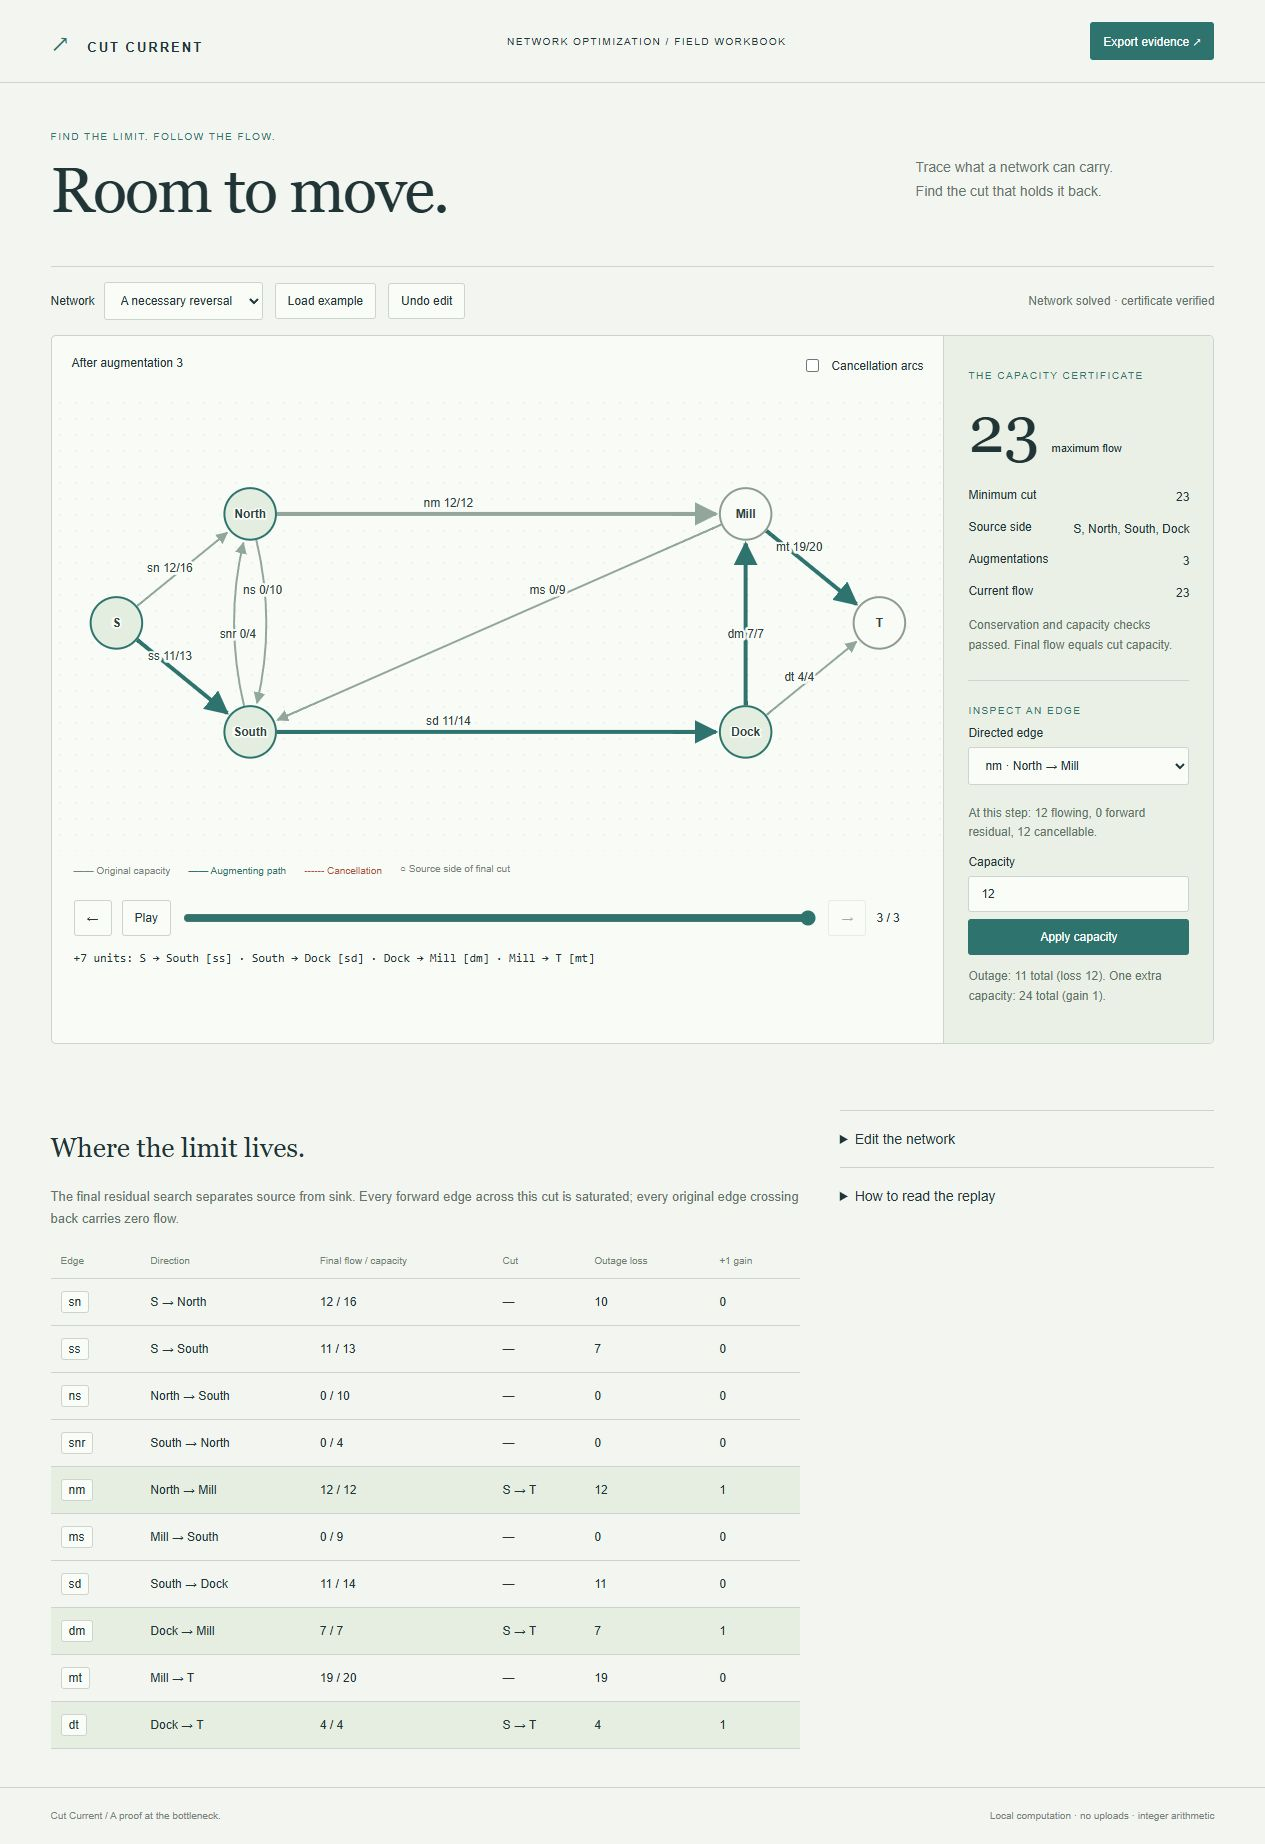
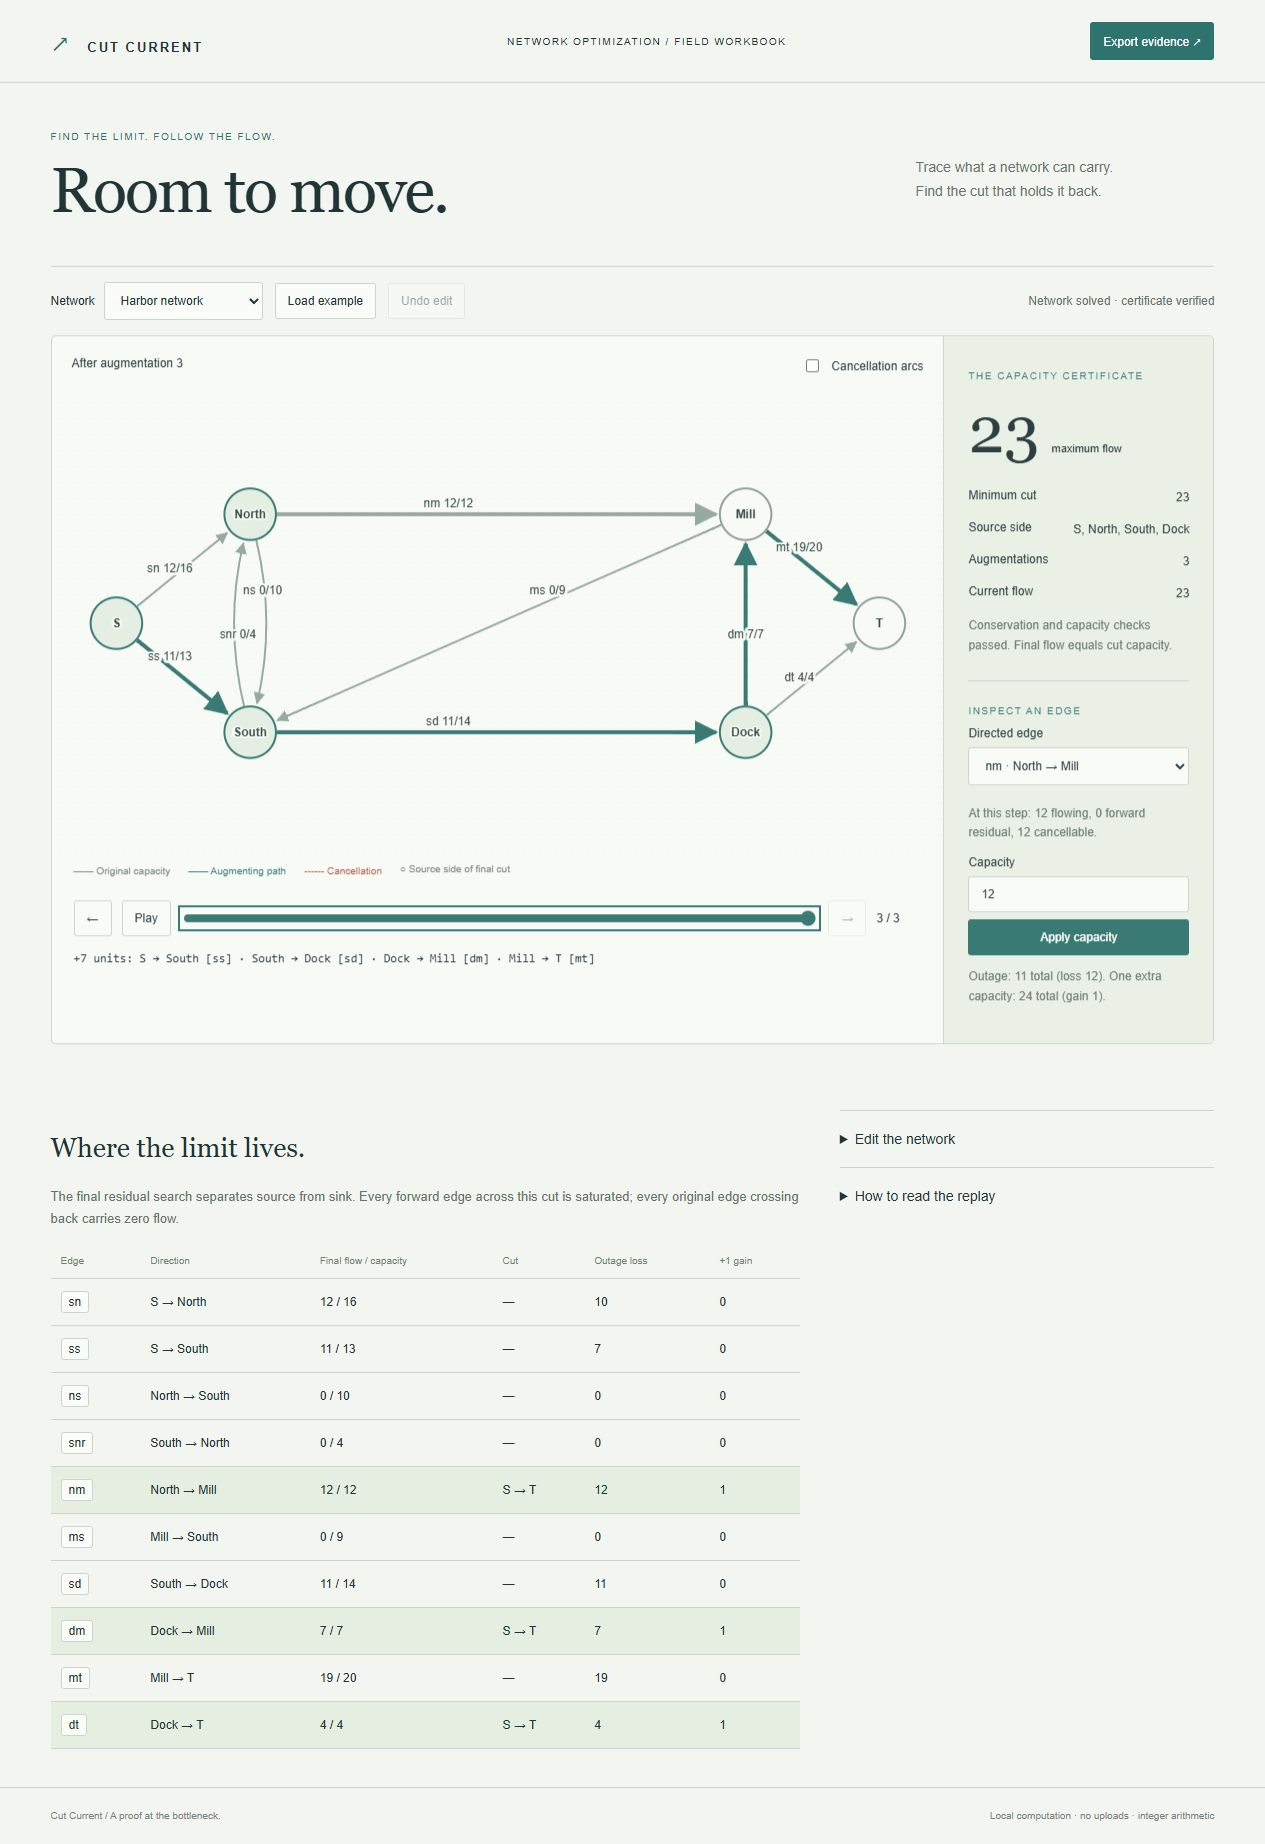
Keep preset labels consistent after imports and capacity edits

diff --git a/app.js b/app.js
@@ -249,6 +249,11 @@ function apply(input, remember = true) {
     if (history.length > 30) history.shift();
   }
   result = next;
+  $("preset").value =
+    ["harbor", "reroute"].find(
+      (k) => JSON.stringify(example(k)) === JSON.stringify(result.network),
+    ) || "custom";
+  $("reset").disabled = $("preset").value === "custom";
   impacts = nextImpacts;
   step = 0;
   selected = Math.min(selected, Math.max(0, result.network.edges.length - 1));
@@ -266,6 +271,9 @@ function attempt(fn) {
   }
 }
 $("reset").onclick = () => attempt(() => apply(example($("preset").value)));
+$("preset").onchange = () => {
+  $("reset").disabled = $("preset").value === "custom";
+};
 $("apply").onclick = () =>
   attempt(() => {
     if ($("editor").value.length > 100000)

diff --git a/index.html b/index.html
@@ -29,6 +29,7 @@
           <select id="preset">
             <option value="harbor">Harbor network</option>
             <option value="reroute">A necessary reversal</option>
+            <option value="custom" disabled>Custom network</option>
           </select></label
         ><button id="reset">Load example</button
         ><button id="undo" disabled>Undo edit</button
